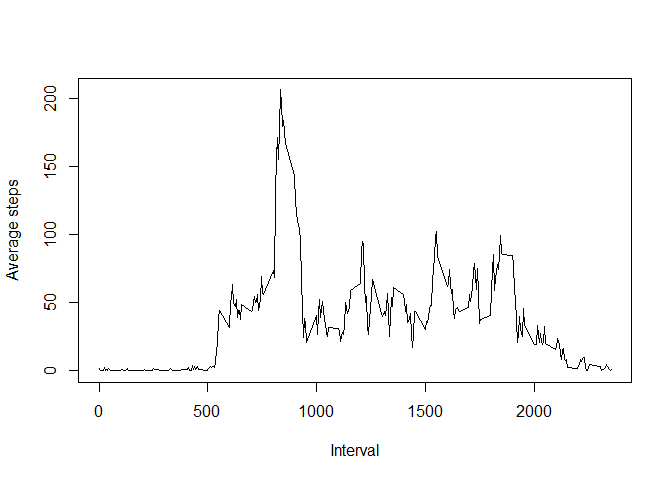
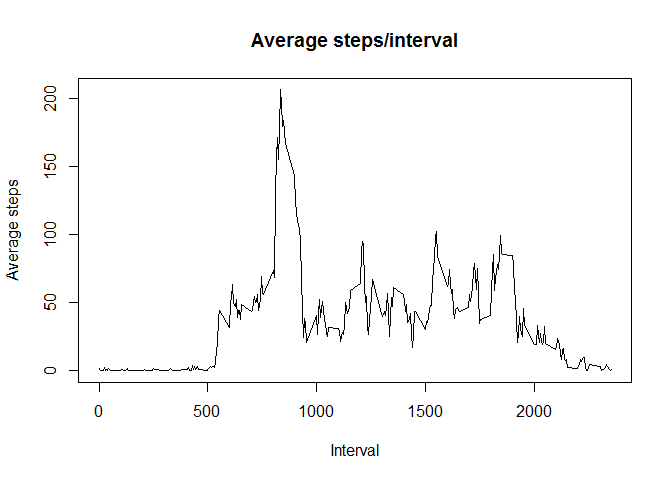
finishing touches

Changed region(s): [[0.375, 0.0625, 0.6875, 0.125]]

diff --git a/PA1_template.html b/PA1_template.html
@@ -105,7 +105,7 @@ unlink(data_file)   # we don't need to keep the unzipped file around any longer
 na_steps_ndx &lt;- is.na(data_raw$steps)       # index of NAs
 intervals_list &lt;- unique(data_raw$interval) # list of intervals</code></pre>
 <p>Create a data frame without NA’s (nona), grouped by day</p>
-<pre class="r"><code>data_nona_by_day&lt;-data_raw %&gt;%
+<pre class="r"><code>data_nona_by_day &lt;- data_raw %&gt;%
   filter(!is.na(steps)) %&gt;%
   group_by(date)  %&gt;%
   summarize(daily_steps_total=sum(steps))</code></pre>
@@ -114,7 +114,7 @@ intervals_list &lt;- unique(data_raw$interval) # list of intervals</code></pre>
 <h2>What is mean total number of steps taken per day?</h2>
 <pre class="r"><code>daily_nona_steps_mean &lt;- mean(data_nona_by_day$daily_steps_total)
 daily_nona_steps_median &lt;- median(data_nona_by_day$daily_steps_total)</code></pre>
-<p>Ignoring NAs, the mean total number of steps taken per day is <strong>10766.1887</strong>, with a median of <strong>10765</strong> steps.</p>
+<p>Ignoring NAs, the mean total number of steps taken per day is <strong>10766.1887</strong> (rounded to 4 decimal places), with a median of <strong>10765</strong> steps.</p>
 <p><em>Make a histogram of the total number of steps taken each day</em></p>
 <pre class="r"><code>with(data_nona_by_day,
      hist(daily_steps_total,
@@ -135,9 +135,10 @@ daily_nona_steps_median &lt;- median(data_nona_by_day$daily_steps_total)</code><
 <pre class="r"><code>with(data_nona_by_interval,
      plot(interval,interval_steps_mean, 
      type = &quot;l&quot;,
+     main=&quot;Average steps/interval&quot;,
      xlab=&quot;Interval&quot;,
      ylab=&quot;Average steps&quot;))</code></pre>
[2 lines of base64/hex data omitted]
 <p><em>Which 5-minute interval, on average across all the days in the dataset, contains the maximum number of steps?</em></p>
 <pre class="r"><code>max_interval_steps &lt;- intervals_list[which.max(data_nona_by_interval$interval_steps_total)]</code></pre>
 <p>The interval with the highest average across all days is <strong>835</strong>.</p>
@@ -177,11 +178,11 @@ data_new$steps[which(na_steps_ndx)] &lt;- data_nona_by_interval$interval_steps_m
 <p><em>Calculate mean and median total number of steps taken per day.</em></p>
 <pre class="r"><code>daily_new_steps_mean &lt;- mean(data_new_by_day$daily_steps_total)
 daily_new_steps_median &lt;- median(data_new_by_day$daily_steps_total)</code></pre>
-<p>After replacing NAs with the median step per interval, the mean total number of steps taken per day is <strong>10766.1887</strong>, with a median of <strong>10766.1887</strong> steps. There is no difference in the means between the dataset with ignored NAs and the dataset with imputed NAs. Likewise, the difference in medians is an issue of rounding to the integer (<strong>10765</strong> vs <strong>10766.1887</strong>). Therefore, I believe that we can state that there is no impact when using mean/interval to impute missing data.</p>
+<p>After replacing NAs with the median step per interval, the mean total number of steps taken per day is <strong>10766.1887</strong> (rounded to 4 decimal places), with a median of <strong>10766.1887</strong> steps (rounded to 4 decimal places). There is no difference in the means between the dataset with ignored NAs and the dataset with imputed NAs. Likewise, the difference in medians is very small (<strong>10766.1887</strong> vs <strong>10765</strong> (rounded to 4 decimal places)). Therefore, I believe that we can state that there is no impact when using mean/interval to impute missing data.</p>
 </div>
 <div id="are-there-differences-in-activity-patterns-between-weekdays-and-weekends" class="section level2">
 <h2>Are there differences in activity patterns between weekdays and weekends?</h2>
-<p><em>Create a new factor variable in the dataset with two levels â<U+0080><U+0093> â<U+0080><U+009C>weekdayâ<U+0080> and â<U+0080><U+009C>weekendâ<U+0080> indicating whether a given date is a weekday or weekend day.</em></p>
+<p><em>Create a new factor variable in the dataset with two levels - “weekday” and “weekend” indicating whether a given date is a weekday or weekend day.</em></p>
 <pre class="r"><code># add new variable &quot;day_type&quot;, initialized to POSIX wday integer
 data_new$day_type &lt;- as.POSIXlt(data_new$date,format=&quot;%Y-%m-%d&quot;)$wday
 

diff --git a/PA1_template.md b/PA1_template.md
@@ -53,7 +53,7 @@ intervals_list <- unique(data_raw$interval)	# list of intervals
 Create a data frame without NA's (nona), grouped by day
 
 ```r
-data_nona_by_day<-data_raw %>%
+data_nona_by_day <- data_raw %>%
   filter(!is.na(steps)) %>%
   group_by(date)  %>%
   summarize(daily_steps_total=sum(steps))
@@ -67,7 +67,7 @@ daily_nona_steps_mean <- mean(data_nona_by_day$daily_steps_total)
 daily_nona_steps_median <- median(data_nona_by_day$daily_steps_total)
 ```
 
-Ignoring NAs, the mean total number of steps taken per day is **10766.1887**, with a median of **10765** steps.
+Ignoring NAs, the mean total number of steps taken per day is **10766.1887** (rounded to 4 decimal places), with a median of **10765** steps.
 
 *Make a histogram of the total number of steps taken each day*
 
@@ -99,6 +99,7 @@ data_nona_by_interval <- data_raw %>%
 with(data_nona_by_interval,
      plot(interval,interval_steps_mean, 
      type = "l",
+     main="Average steps/interval",
      xlab="Interval",
      ylab="Average steps"))
 ```
@@ -165,12 +166,12 @@ daily_new_steps_mean <- mean(data_new_by_day$daily_steps_total)
 daily_new_steps_median <- median(data_new_by_day$daily_steps_total)
 ```
 
-After replacing NAs with the median step per interval, the mean total number of steps taken per day is **10766.1887**, with a median of **10766.1887** steps. There is no difference in the means between the dataset with ignored NAs and the dataset with imputed NAs. Likewise, the difference in medians is an issue of rounding to the integer (**10765** vs **10766.1887**). Therefore, I believe that we can state that there is no impact when using mean/interval to impute missing data.
+After replacing NAs with the median step per interval, the mean total number of steps taken per day is **10766.1887** (rounded to 4 decimal places), with a median of **10766.1887** steps (rounded to 4 decimal places). There is no difference in the means between the dataset with ignored NAs and the dataset with imputed NAs. Likewise, the difference in medians is very small (**10766.1887** vs **10765** (rounded to 4 decimal places)). Therefore, I believe that we can state that there is no impact when using mean/interval to impute missing data.
 
 
 ## Are there differences in activity patterns between weekdays and weekends?
 
-*Create a new factor variable in the dataset with two levels â<U+0080><U+0093> â<U+0080><U+009C>weekdayâ<U+0080> and â<U+0080><U+009C>weekendâ<U+0080> indicating whether a given date is a weekday or weekend day.*
+*Create a new factor variable in the dataset with two levels - "weekday" and "weekend" indicating whether a given date is a weekday or weekend day.*
 
 ```r
 # add new variable "day_type", initialized to POSIX wday integer
